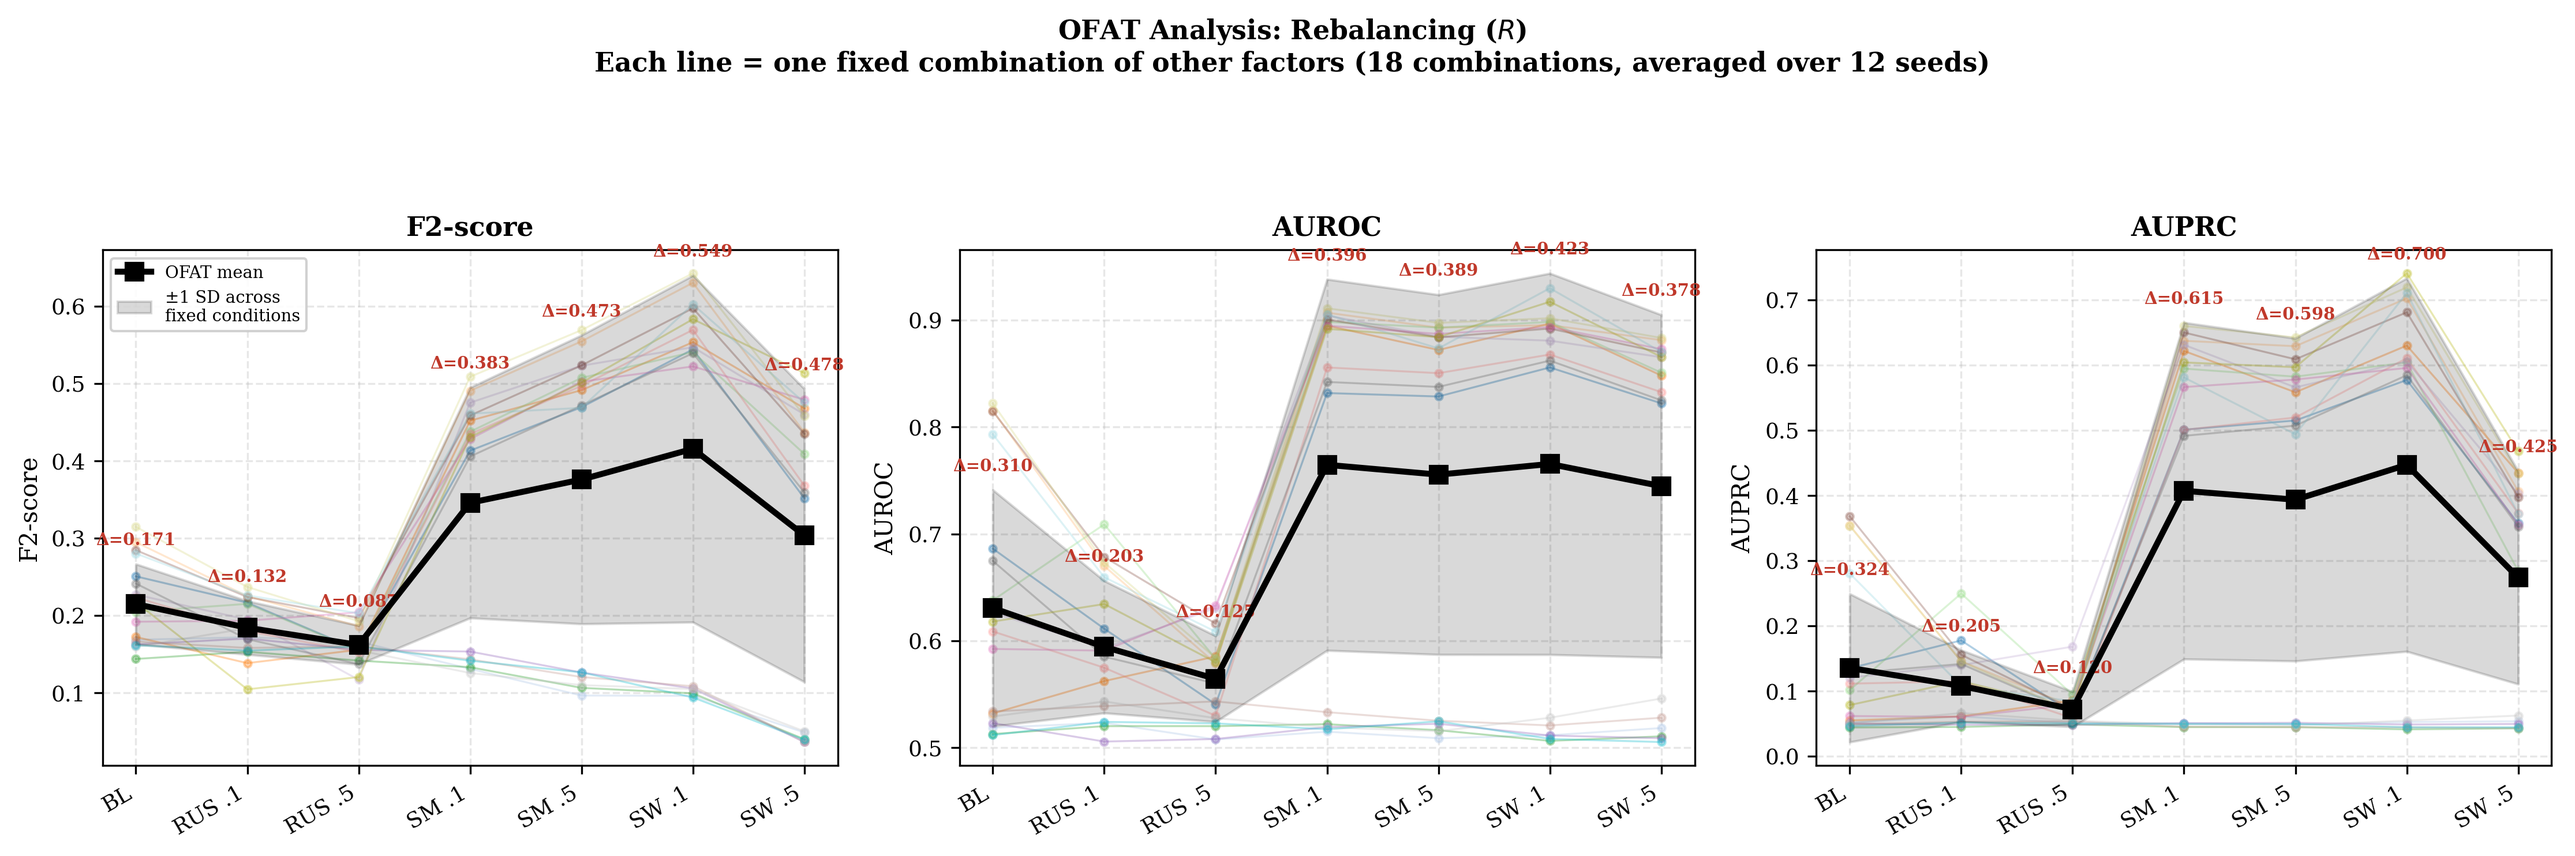
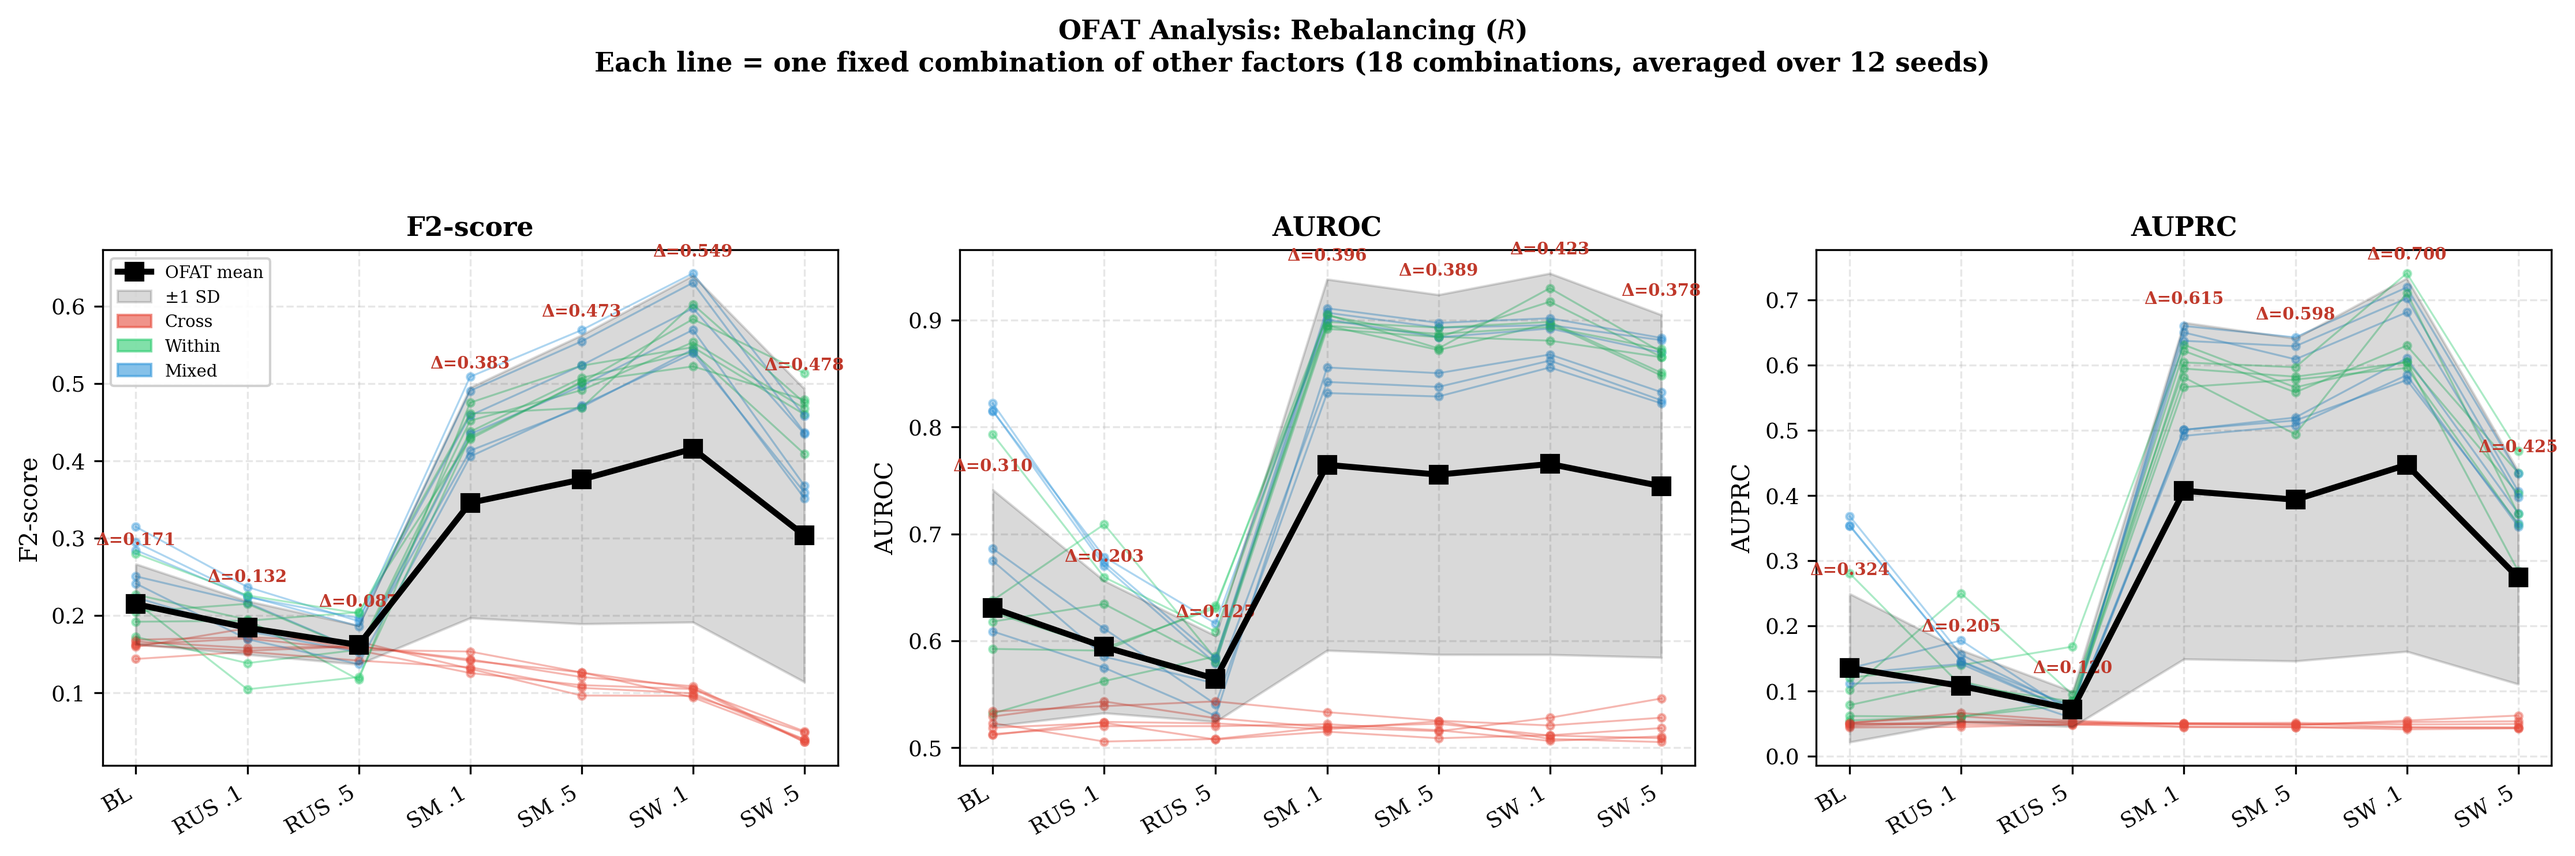
improve Figs. S1–S4: colour-code OFAT lines by dominant other factor
- S1 (Rebalancing), S2 (Distance), S3 (Membership): lines coloured
  by Mode (red=Cross, green=Within, blue=Mixed) — reveals R×M
  interaction as the source of Δ variation
- S4 (Mode): lines coloured by Rebalancing family
  (grey=BL, green=RUS, blue=SMOTE, orange=SW-SMOTE)
- Legend added to each figure showing colour mapping
- Replaces plain tab20 cycling with semantically meaningful colours

diff --git a/scripts/python/analysis/domain/plot_ofat_supplement.py b/scripts/python/analysis/domain/plot_ofat_supplement.py
@@ -70,6 +70,28 @@ MODE_LABELS  = {"source_only": "Cross", "target_only": "Within", "mixed": "Mixed
 DIST_LABELS  = {"mmd": "MMD", "dtw": "DTW", "wasserstein": "Wass."}
 LEVEL_LABELS = {"in_domain": "In", "out_domain": "Out"}
 
+# Colour-coding by the most informative other factor
+MODE_COLORS = {
+    "source_only": "#e74c3c",   # red
+    "target_only": "#2ecc71",   # green
+    "mixed":       "#3498db",   # blue
+}
+FAMILY_COLORS = {
+    "baseline":      "#95a5a6",  # grey
+    "rus_r01":       "#27ae60",  # green bright
+    "rus_r05":       "#1e8449",  # green dark
+    "smote_r01":     "#3498db",  # blue bright
+    "smote_r05":     "#2980b9",  # blue dark
+    "sw_smote_r01":  "#e67e22",  # orange bright
+    "sw_smote_r05":  "#d35400",  # orange dark
+}
+FAMILY_LEGEND = {
+    "BL":       "#95a5a6",
+    "RUS":      "#27ae60",
+    "SMOTE":    "#3498db",
+    "SW-SMOTE": "#e67e22",
+}
+
 MODES     = ["source_only", "target_only", "mixed"]
 DISTANCES = ["mmd", "dtw", "wasserstein"]
 LEVELS    = ["in_domain", "out_domain"]
@@ -146,6 +168,16 @@ def plot_ofat(df: pd.DataFrame, target_factor: str):
     levels, label_map, display_name = FACTORS[target_factor]
     other_factors = [f for f in FACTORS if f != target_factor]
 
+    # Choose a colour-coding factor: Mode when available, else Rebalancing
+    if target_factor != "mode":
+        color_factor = "mode"
+        color_map = MODE_COLORS
+        color_labels = MODE_LABELS
+    else:
+        color_factor = "condition"
+        color_map = FAMILY_COLORS
+        color_labels = COND_LABELS
+
     fig, axes = plt.subplots(1, 3, figsize=(15, 5), sharey=False)
 
     for ax_idx, (metric, mlabel) in enumerate(PRIMARY_METRICS):
@@ -162,6 +194,7 @@ def plot_ofat(df: pd.DataFrame, target_factor: str):
 
         all_lines = []   # list of arrays, each shape = (n_levels,)
         combo_labels = []
+        combo_labels_raw = []  # raw dict per combo for colour lookup
 
         for _, combo_row in other_combos.iterrows():
             combo_dict = combo_row.to_dict()
@@ -183,15 +216,17 @@ def plot_ofat(df: pd.DataFrame, target_factor: str):
                 flevels, flabels, _ = FACTORS[f]
                 parts.append(flabels[combo_dict[f]])
             combo_labels.append("/".join(parts))
+            combo_labels_raw.append(combo_dict)
 
         all_lines = np.array(all_lines)  # shape (n_combos, n_levels)
 
-        # Plot each fixed-condition line (thin, semi-transparent)
+        # Plot each fixed-condition line, coloured by color_factor
         n_combos = len(all_lines)
         for i in range(n_combos):
-            color = LINE_CMAP(i / max(n_combos - 1, 1))
+            cf_val = combo_labels_raw[i][color_factor]
+            color = color_map[cf_val]
             ax.plot(range(len(levels)), all_lines[i], "-o",
-                    color=color, alpha=0.35, linewidth=0.8, markersize=3,
+                    color=color, alpha=0.40, linewidth=0.8, markersize=3,
                     zorder=2)
 
         # Compute grand OFAT mean and SD across fixed conditions
@@ -226,7 +261,21 @@ def plot_ofat(df: pd.DataFrame, target_factor: str):
         ax.set_ylabel(mlabel)
         ax.set_title(mlabel, fontweight="bold")
         if ax_idx == 0:
-            ax.legend(loc="best", framealpha=0.9)
+            # Build legend: OFAT mean + SD band + colour-factor entries
+            handles = ax.get_legend_handles_labels()[0][:2]  # mean + band
+            labels_leg = ["OFAT mean", "±1 SD"]
+            if target_factor != "mode":
+                # Colour by mode
+                for m_key, m_label in MODE_LABELS.items():
+                    handles.append(mpatches.Patch(color=MODE_COLORS[m_key], alpha=0.6))
+                    labels_leg.append(m_label)
+            else:
+                # Colour by rebalancing family
+                for fam_label, fam_color in FAMILY_LEGEND.items():
+                    handles.append(mpatches.Patch(color=fam_color, alpha=0.6))
+                    labels_leg.append(fam_label)
+            ax.legend(handles, labels_leg, loc="best", framealpha=0.9,
+                      fontsize=7, ncol=1)
 
     fig.suptitle(
         f"OFAT Analysis: {display_name}\n"
